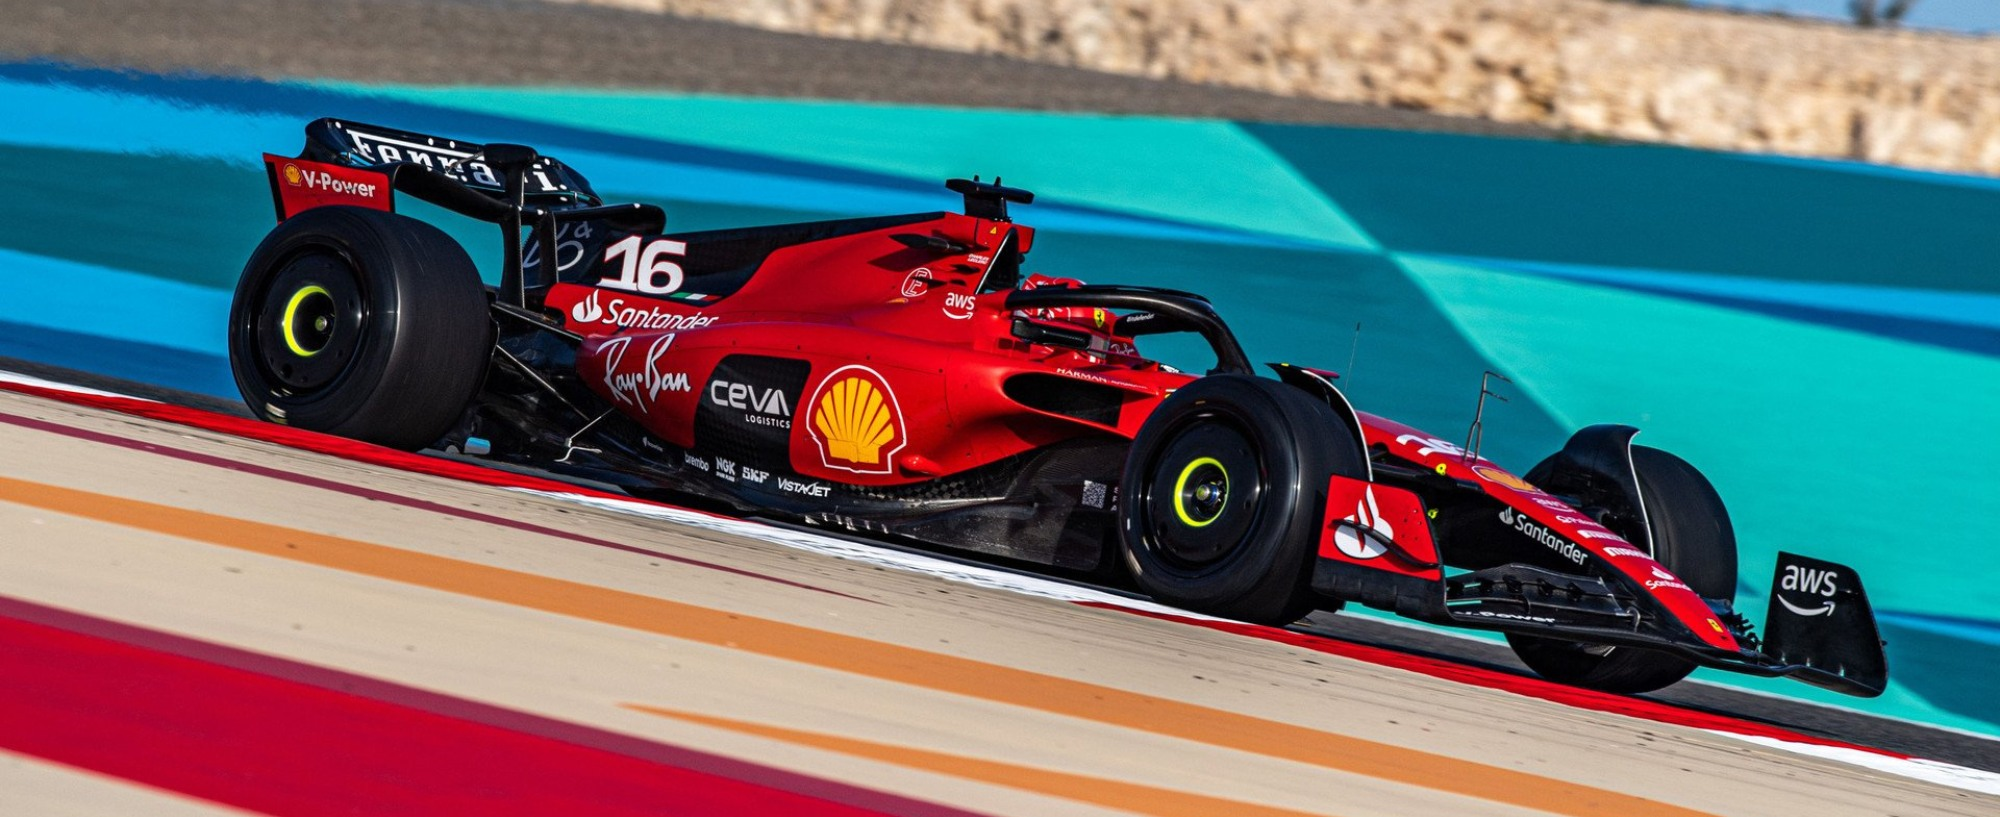
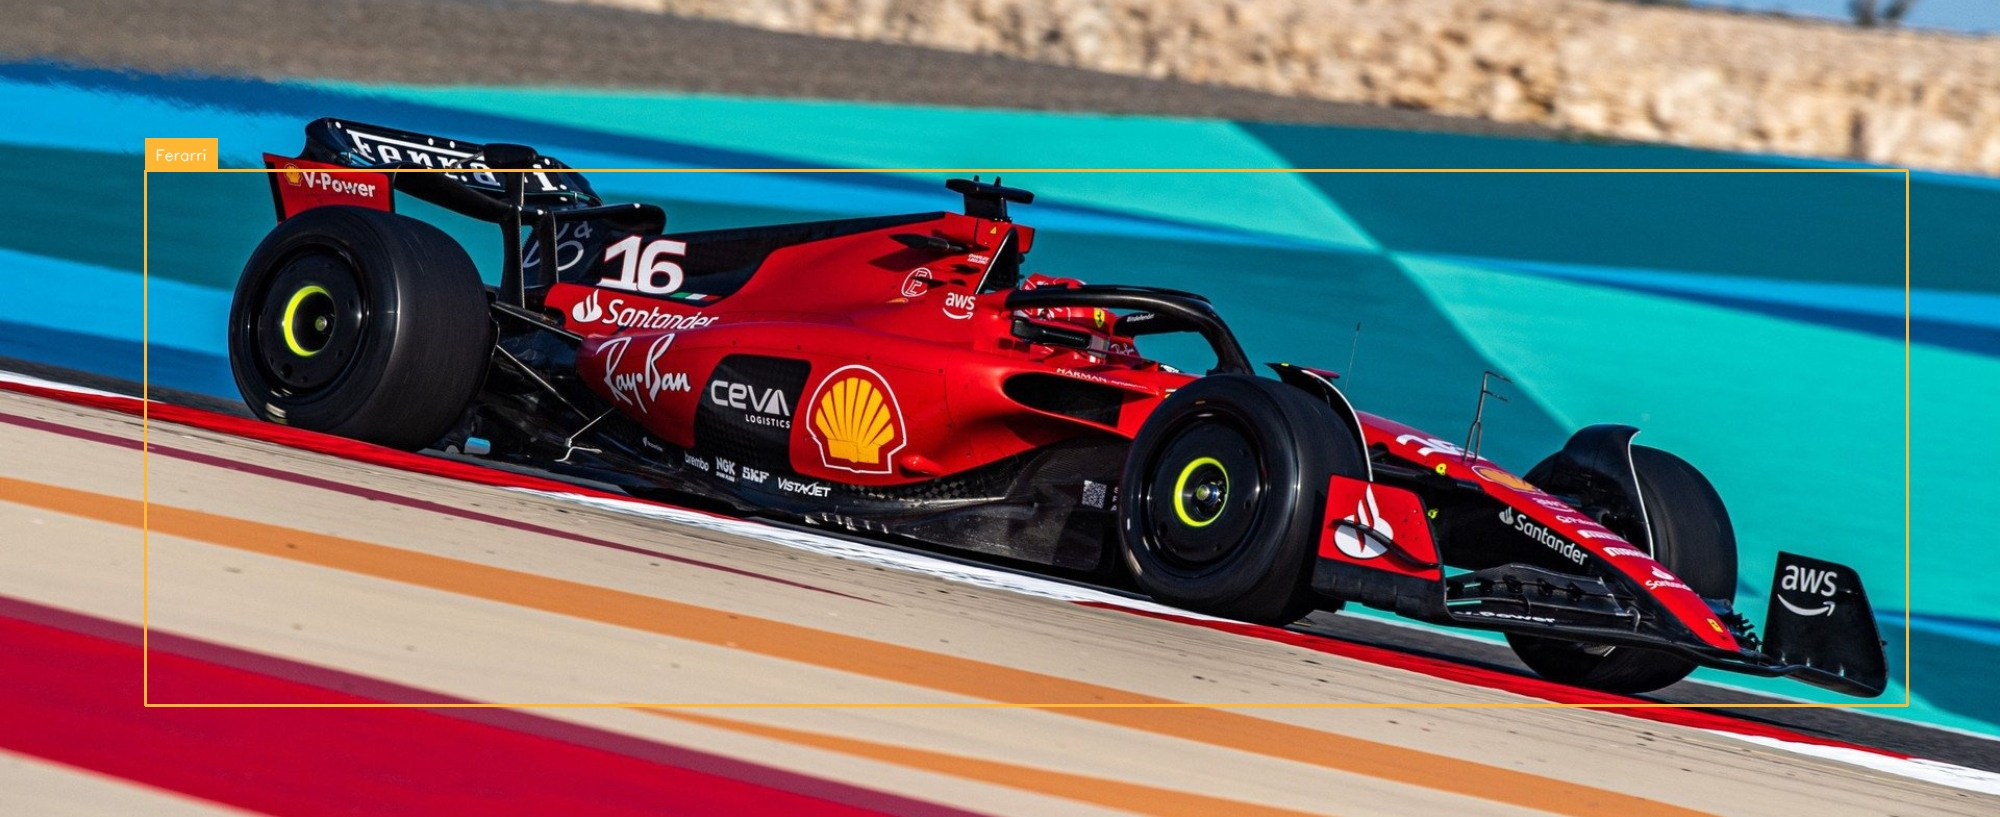
#1 premiere version de lia python fonctionnelle

Changed region(s): [[0.062, 0.153, 0.961, 0.2142], [0.062, 0.8568, 0.961, 0.8874]]

diff --git a/index.html b/index.html
@@ -1,0 +1,35 @@
+<!DOCTYPE html>
+<html>
+<body>
+
+
+
+</body>
+<script>
+    const axios = require("axios");
+    const fs = require("fs");
+
+    const image = fs.readFileSync("Ferrari.jpg", {
+        encoding: "base64"
+    });
+
+    axios({
+        method: "POST",
+        url: "https://detect.roboflow.com/f1-car-2023/5",
+        params: {
+            api_key: "WwQQ9F0aLwWflg7WGHrk"
+        },
+        data: image,
+        headers: {
+            "Content-Type": "application/x-www-form-urlencoded"
+        }
+    })
+    .then(function(response) {
+        console.log(response.data);
+    })
+    .catch(function(error) {
+        console.log(error.message);
+    });
+
+</script>
+</html> 

diff --git a/ai.py b/ai.py
@@ -6,8 +6,9 @@ import supervision as sv
 import cv2
 
 # define the image url to use for inference
-image_file = "Ferrari.jpeg"
+image_file = "Ferrari.jpg"
 image = cv2.imread(image_file)
+
 
 # load a pre-trained yolov8n model
 model = get_model(model_id="f1-car-2023/5")
@@ -30,3 +31,4 @@ annotated_image = label_annotator.annotate(
 
 # display the image
 sv.plot_image(annotated_image)
+cv2.imwrite("Ferrari.jpg", annotated_image) 

diff --git a/ai2.py b/ai2.py
@@ -1,0 +1,11 @@
+# import the inference-sdk
+from inference_sdk import InferenceHTTPClient
+
+# initialize the client
+CLIENT = InferenceHTTPClient(
+    api_url="https://detect.roboflow.com",
+    api_key="WwQQ9F0aLwWflg7WGHrk"
+)
+
+# infer on a local image
+result = CLIENT.infer("Ferrari.jpg", model_id="f1-car-2023/5")
